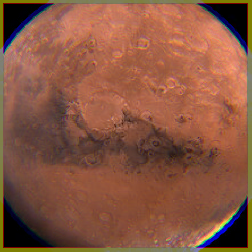
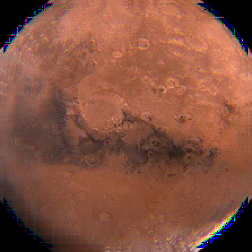
Se arreglan las focales

diff --git a/functions.py b/functions.py
@@ -38,14 +38,14 @@ def interpolation(pixels, width_output, height_output):
 def compute_lens_matrix(nl, R1, R2, dl):
     #A = np.array([[-0.00142039, 915.284], [-0.0012025, 70.8481]]) para lentes gruesas
     AR = np.array([[1/70, 690], [0, 70]])
-    AG = np.array([[0.0144265, 690], [0, 69.3168]])
-    AB = np.array([[0.0148487, 690], [0, 67.3462]])
+    AG = np.array([[101/7001, 690], [0, 7001/101]])
+    AB = np.array([[104/7004, 690], [0, 7004/104]])
     
-    A = np.array([[[1/70, 0.0144265, 0.0148487], [690, 690, 690]], [[0, 0, 0], [70, 69.3168, 67.3462]]])
+    A = np.array([[[1/70, 101/7001, 104/7004], [690, 690, 690]], [[0, 0, 0], [70, 7001/101, 7004/104]]])
     return A
 
 #Ray tracing function with spherical aberration
-def ray_tracing(width, height, rayo, so, n1, obj, res, nl, R1, R2, dl, pixels, width_output, height_output, si2, Mt):
+def ray_tracing(width, height, rayo, so, n1, obj, res, nl, R1, R2, dl, pixels, width_output, height_output, si2):
 
     # Iterate over each pixel of the image
     for i in range(width):
@@ -71,7 +71,7 @@ def ray_tracing(width, height, rayo, so, n1, obj, res, nl, R1, R2, dl, pixels, w
             A = compute_lens_matrix(nl, R1, R2, dl)
 
             # Define propagation matrices after and before the lens
-            P2 = np.array([[[1, 1, 1], [si/n1, si/n1, si/n1]],[[0, 0, 0], [1, 1, 1]]])
+            P2 = np.array([[[1, 1, 1], [si[0]/n1, si[1]/n1, si[2]/n1]],[[0, 0, 0], [1, 1, 1]]])
             P1 = np.array([[[1, 1, 1], [so/n1, so/n1, so/n1]],[[0, 0, 0], [1, 1, 1]]])
 
             if rayo == 0: #principal
@@ -89,7 +89,7 @@ def ray_tracing(width, height, rayo, so, n1, obj, res, nl, R1, R2, dl, pixels, w
             y_imagen = V_salida[0]
             if rayo == 0: #principal
                 #Mt = -y_imagen/y_objeto #atan correction
-                Mt = [-y_imagen[0]/y_objeto, -y_imagen[1]/y_objeto, -y_imagen[2]/y_objeto]
+                Mt = [y_imagen[0]/y_objeto, y_imagen[1]/y_objeto, y_imagen[2]/y_objeto]
             elif rayo == 1: #parallel
                 #Mt = y_imagen/y_objeto
                 Mt = [y_imagen[0]/y_objeto, y_imagen[1]/y_objeto, y_imagen[2]/y_objeto]

diff --git a/index.py b/index.py
@@ -24,20 +24,22 @@ res = 40/63
 
 so = 1320
 
-f1 = df.loc['objective','mainSystem']['f']
-f2 = df.loc['eyespace','mainSystem']['f']
+f1 = df.loc['objective2','mainSystem']['f']
+f2 = df.loc['eyespace2','mainSystem']['f']
 
-si1 = (f1*so)/(so-f1)
-so2 = -(si1-(f1+f2))
-si2 = (f2*so2)/(so2-f2)
+print(f1, f2)
+
+si1 = [(f1[0]*so)/(so-f1[0]), (f1[1]*so)/(so-f1[1]), (f1[2]*so)/(so-f1[2])]
+so2 = [-(si1[0]-(f1[0]+f2[0])), -(si1[1]-(f1[1]+f2[1])), -(si1[2]-(f1[2]+f2[2]))]
+si2 = [(f2[0]*so2[0])/(so2[0]-f2[0]), (f2[1]*so2[1])/(so2[1]-f2[1]), (f2[2]*so2[2])/(so2[2]-f2[2])]
 
 print(si2)
 
-Mt = (-si1/so)*(si2/so2)
+#Mt = (-si1/so)*(si2/so2)
 
 width, height = obj.size
-width_output = int(width*(abs(Mt)*res))
-height_output = int(height*(abs(Mt)*res))
+"""width_output = int(width*(abs(Mt)*res))
+height_output = int(height*(abs(Mt)*res))"""
 
 width_output = int(width)
 height_output = int(height)
@@ -50,10 +52,10 @@ pixels = image.load()
 interpolate = False
 
 #Compute the image with chief ray
-pixels = ray_tracing(width, height, CHIEF_RAY, so, n1, obj, res, nl, R1, R2, dl, pixels, width_output, height_output, si2, Mt)
+pixels = ray_tracing(width, height, CHIEF_RAY, so, n1, obj, res, nl, R1, R2, dl, pixels, width_output, height_output, si2)
 
 #Compute the cummulated image with parallel ray
-pixels = ray_tracing(width, height, PARALLEL_RAY, so, n1, obj, res, nl, R1, R2, dl, pixels, width_output, height_output, si2, Mt)
+pixels = ray_tracing(width, height, PARALLEL_RAY, so, n1, obj, res, nl, R1, R2, dl, pixels, width_output, height_output, si2)
 
 #Interpolating
 if (interpolate):

diff --git a/test.py b/test.py
@@ -1,5 +1,6 @@
 import numpy as np
 import math
+import pandas as pd
 
 """y_objeto = 80
 n1 = 1
@@ -21,11 +22,25 @@ res3 = np.einsum('ikj,kj->ij', P2, res2)
 
 sol = np.einsum('ba, ced, fhg, ikj->ij', V_entrada, P1, A, P2)
 print(sol)"""
-so = 1324.817172
+"""so = 1324.817172
 f1 = 700
 f2 = -10
 si1 = (f1*so)/(so-f1)
 so2 = si1-(f1+f2)
 si2 = (f2*si1)/(si1-f2)
+
+print(si2)"""
+
+df = pd.read_json("lenses.json")
+so = 1320
+
+f1 = df.loc['objective2','mainSystem']['f']
+f2 = df.loc['eyespace2','mainSystem']['f']
+
+print(f1, f2)
+
+si1 = [(f1[0]*so)/(so-f1[0]), (f1[1]*so)/(so-f1[1]), (f1[2]*so)/(so-f1[2])]
+so2 = [-(si1[0]-(f1[0]+f2[0])), -(si1[1]-(f1[1]+f2[1])), -(si1[2]-(f1[2]+f2[2]))]
+si2 = [(f2[0]*so2[0])/(so2[0]-f2[0]), (f2[1]*so2[1])/(so2[1]-f2[1]), (f2[2]*so2[2])/(so2[2]-f2[2])]
 
 print(si2)
